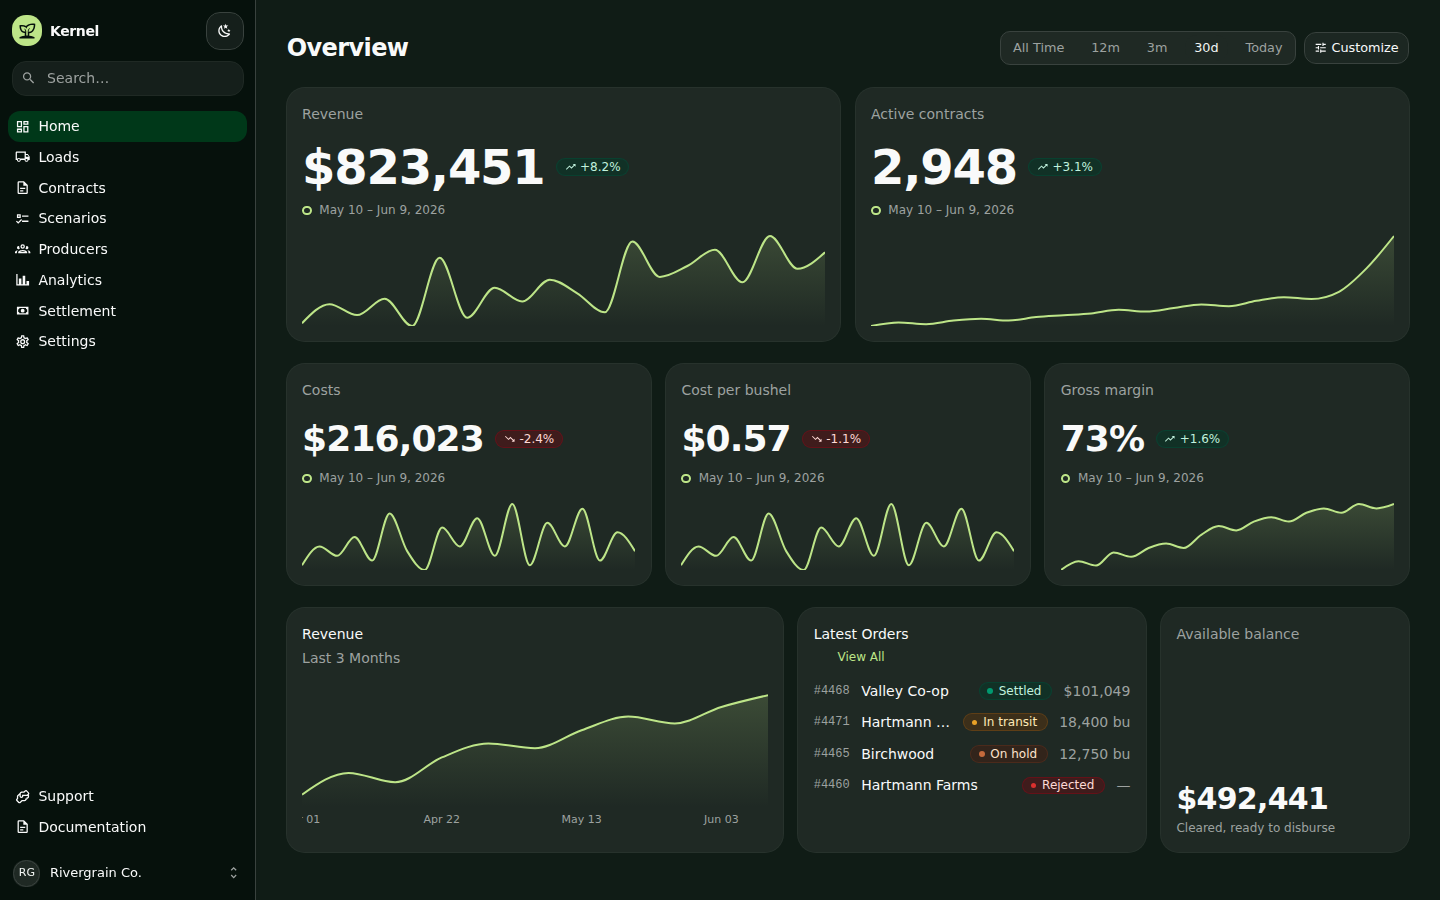
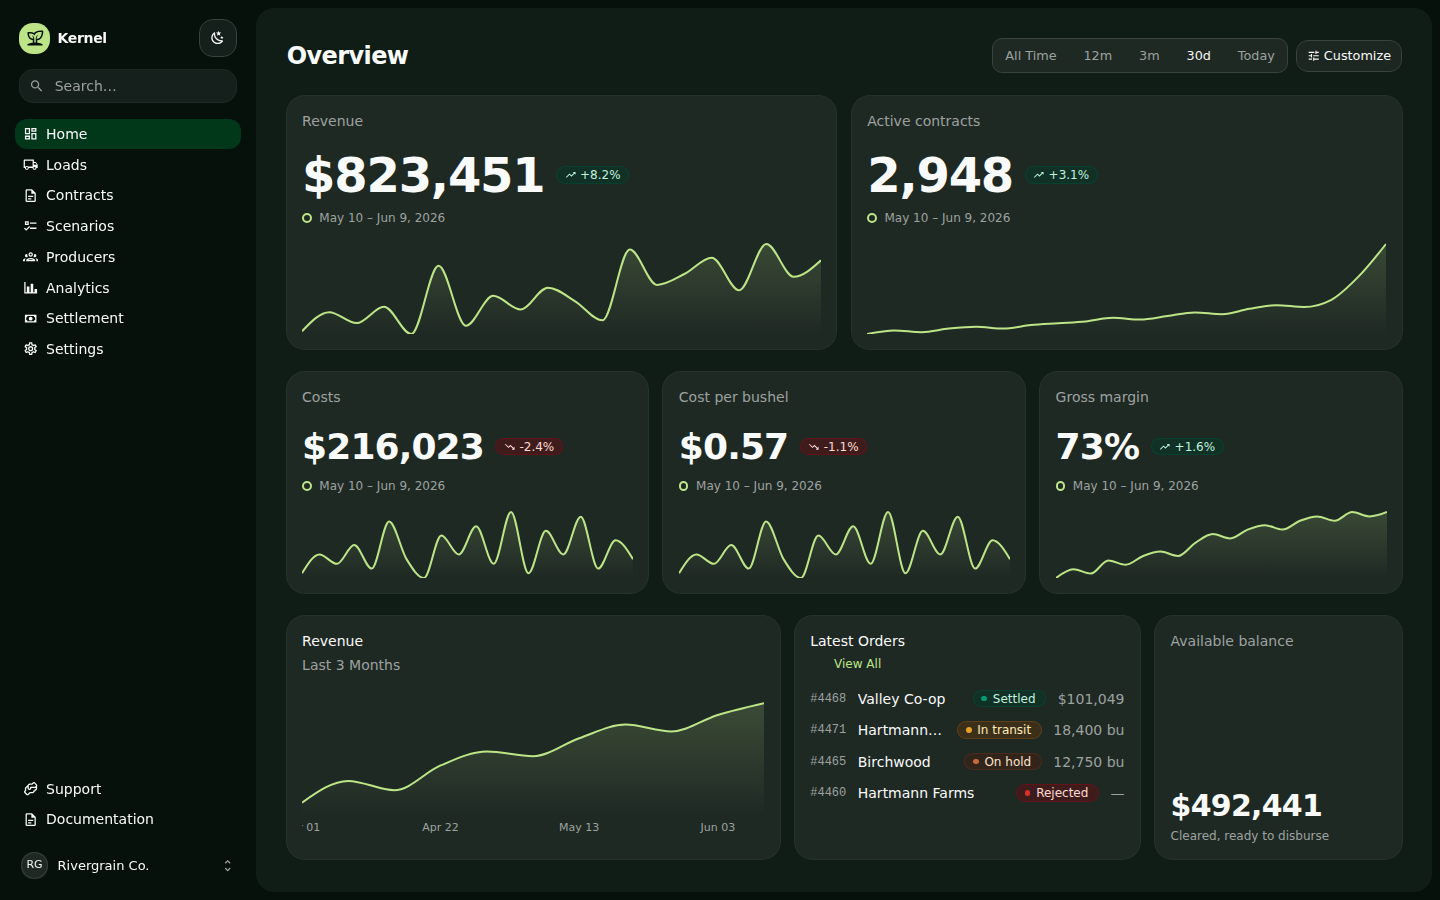
Use the DS sidebar inset variant for the floating content panel
Switch <Sidebar> to variant="inset": the content becomes a bg-background
rounded-xl panel with m-2 ml-0 (margin on top/right/bottom, attached to
the rail on the left) floating on a bg-sidebar frame. That gives the
rail-colored margin + inverse-rounded-corner effect against the rail, and
drops the divider line — all DS-native, no custom layout.

Claude-Session: https://claude.ai/code/session_013x8ctDHrn4DRGQcBdkvgcV

diff --git a/kernel-app/src/components/shell.tsx b/kernel-app/src/components/shell.tsx
@@ -76,7 +76,7 @@ function Nav({ items }: { items: Item[] }) {
 
 function AppSidebar() {
   return (
-    <Sidebar>
+    <Sidebar variant="inset">
       <SidebarHeader className="gap-2">
         <div className="flex items-center gap-2 px-1 py-1">
           <span className="grid size-8 shrink-0 place-items-center rounded-lg bg-sidebar-primary text-sidebar-primary-foreground">
